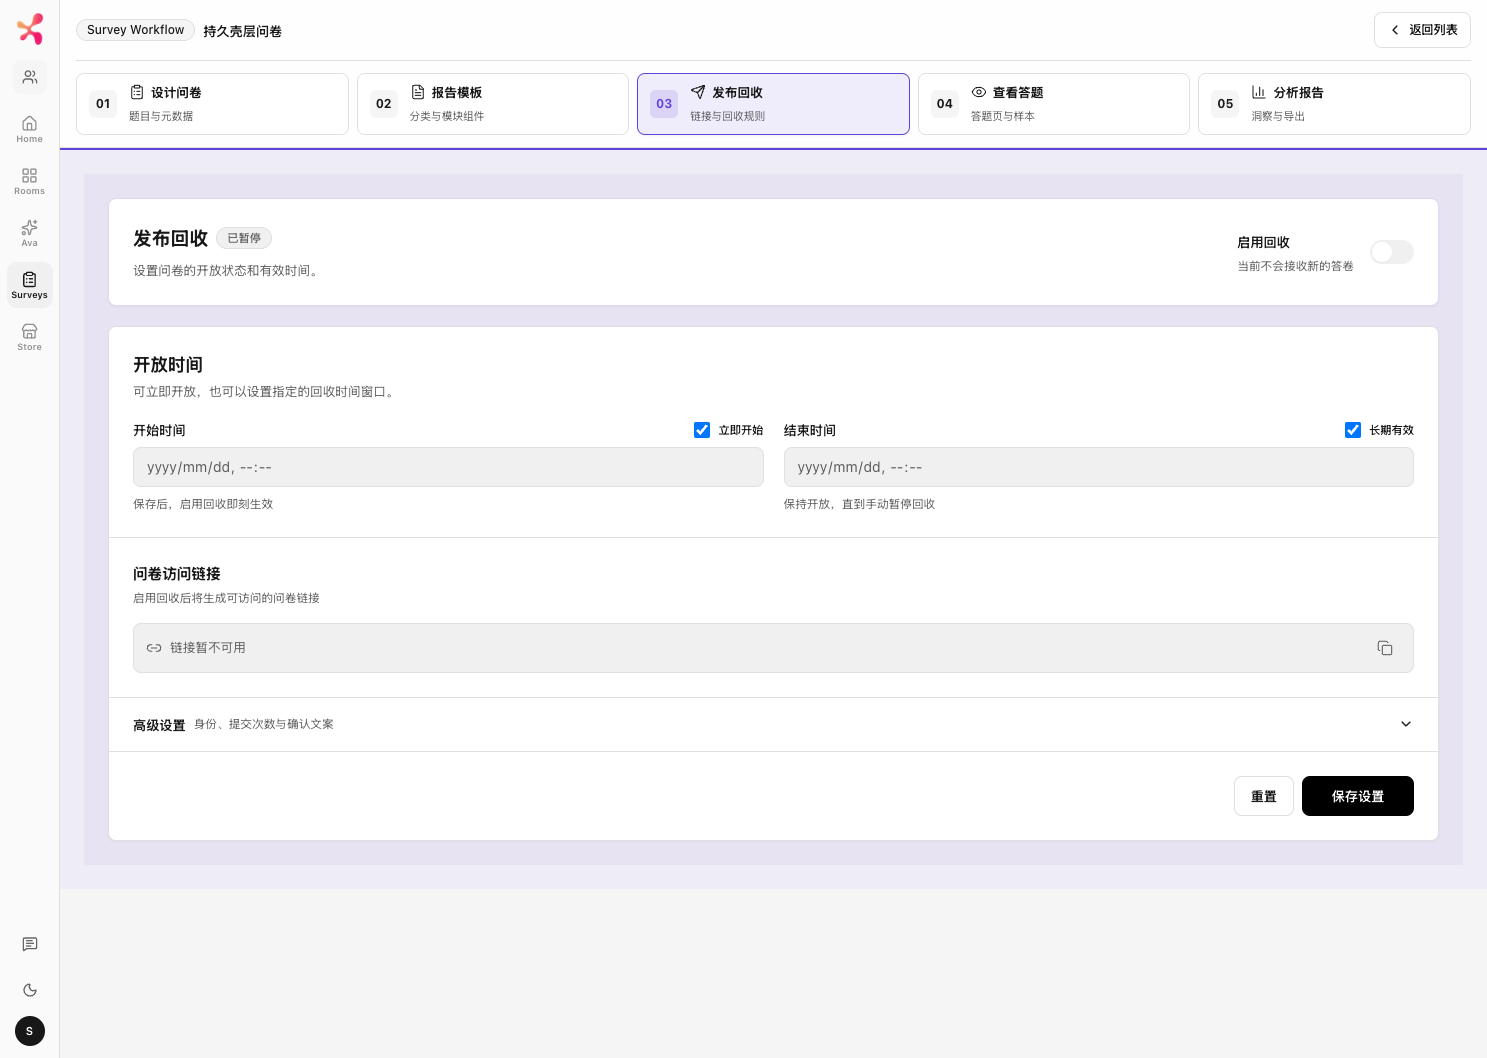
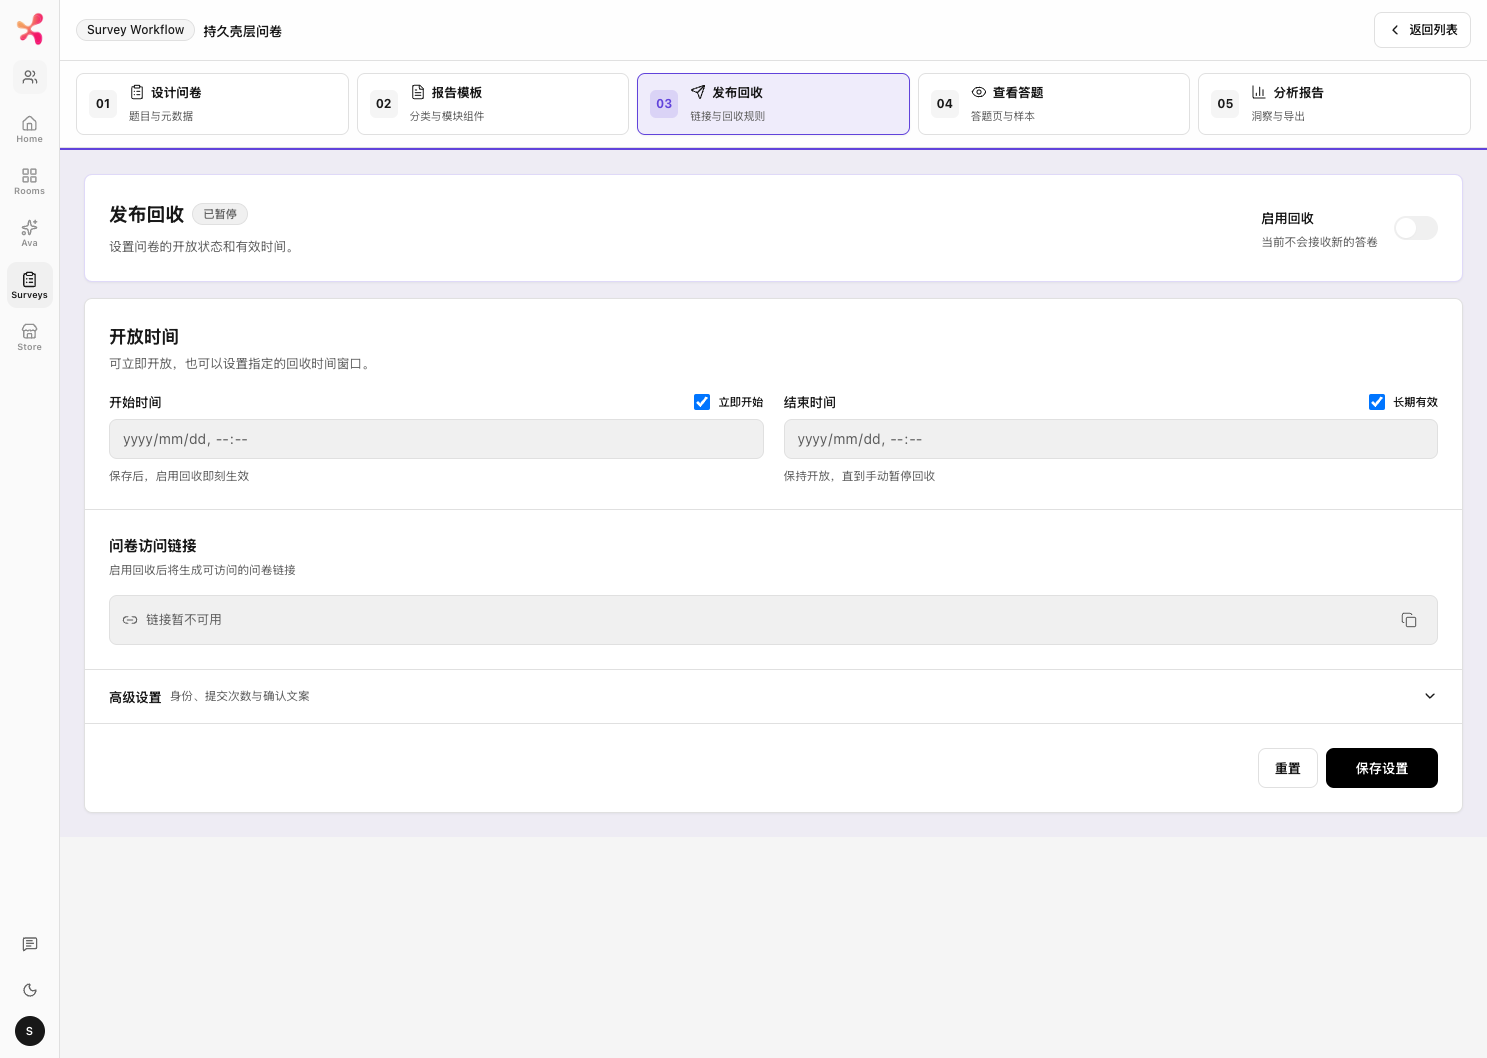
fix(survey): unify workflow surface spacing

Changed region(s): [[0.0309, 0.156, 0.9899, 0.7798], [0.464, 0.3743, 0.6187, 0.4991]]

diff --git a/apps/web/app/(app)/surveys/page.tsx b/apps/web/app/(app)/surveys/page.tsx
@@ -752,11 +752,14 @@ function WorkspaceShell({
           <div className={focusedMode ? "" : "lg:min-w-survey-workbench"}>
           {!hideHeader && <header
             data-testid={inSurveyWorkflow ? "survey-workflow-header" : undefined}
-            className="sticky top-0 z-10 border-b border-border bg-background/95 px-4 py-3 backdrop-blur"
+            className="sticky top-0 z-10 overflow-hidden border-b border-border bg-background/95 backdrop-blur"
           >
             {inSurveyWorkflow ? (
-              <div className="grid gap-3">
-                <div className="flex flex-wrap items-center justify-between gap-3">
+              <div>
+                <div
+                  data-testid="survey-workflow-topbar"
+                  className="flex flex-wrap items-center justify-between gap-3 px-4 py-3"
+                >
                   <div className="flex min-w-0 flex-wrap items-center gap-2">
                     <Badge variant="outline" className="bg-secondary">
                       Survey Workflow
@@ -774,7 +777,10 @@ function WorkspaceShell({
                   </div>
                 </div>
 
-                <div data-testid="survey-workflow-tabs" className="grid gap-2 border-t border-border pt-3 md:grid-cols-5">
+                <div
+                  data-testid="survey-workflow-tabs"
+                  className="grid gap-2 border-t border-border px-4 py-3 md:grid-cols-5"
+                >
                   <span data-testid="survey-editor-stepper" className="sr-only">
                     五步工作流导航
                   </span>
@@ -4942,7 +4948,7 @@ export default function SurveysPage() {
         onCreateBlank={() => openTemplateEditor()}
         onNavigate={(target) => void navigateWorkspace(target)}
       >
-      <div data-testid={isTemplateEditor ? "template-editor-shell" : "survey-editor-screen"} className={isTemplateEditor ? "pb-8" : "w-full px-4 pb-10 sm:px-6"}>
+      <div data-testid={isTemplateEditor ? "template-editor-shell" : "survey-editor-screen"} className={isTemplateEditor ? "pb-8" : "w-full pb-10"}>
         <div data-testid={isTemplateEditor ? undefined : "survey-editor-shell"} className="mb-4">
           {isTemplateEditor && <div className="rounded-lg border border-border bg-background">
           <div data-testid="editor-command-bar" className="flex flex-wrap items-center gap-3 py-4">

diff --git a/apps/web/e2e/survey-p25-024-persistent-workflow-shell.spec.ts b/apps/web/e2e/survey-p25-024-persistent-workflow-shell.spec.ts
@@ -218,8 +218,11 @@ test("five workflow surfaces fill the desktop workspace and keep a single-column
     await page.goto(`/surveys?survey=${survey.id}&step=${step}`);
     const surface = page.getByTestId("survey-workflow-surface");
     const content = page.getByTestId("survey-workflow-content");
+    const header = page.getByTestId("survey-workflow-header");
+    const topbar = page.getByTestId("survey-workflow-topbar");
+    const tabs = page.getByTestId("survey-workflow-tabs");
 
-    await expect(page.getByTestId("survey-workflow-header")).toContainText("持久壳层问卷", { timeout: 30_000 });
+    await expect(header).toContainText("持久壳层问卷", { timeout: 30_000 });
     const workbench = page.getByTestId(workbenches[step]);
     await expect(workbench).toBeVisible({ timeout: 20_000 });
     if (step === "design") {
@@ -228,14 +231,22 @@ test("five workflow surfaces fill the desktop workspace and keep a single-column
     }
     await expect(surface).toBeVisible({ timeout: 20_000 });
     await expect(content).toBeVisible();
-    const [surfaceBox, contentBox, workbenchBox] = await Promise.all([
+    const [headerBox, topbarBox, tabsBox, surfaceBox, contentBox, workbenchBox] = await Promise.all([
+      header.boundingBox(),
+      topbar.boundingBox(),
+      tabs.boundingBox(),
       surface.boundingBox(),
       content.boundingBox(),
       workbench.boundingBox(),
     ]);
+    expect(headerBox).not.toBeNull();
+    expect(topbarBox).not.toBeNull();
+    expect(tabsBox).not.toBeNull();
     expect(surfaceBox).not.toBeNull();
     expect(contentBox).not.toBeNull();
     expect(workbenchBox).not.toBeNull();
+    expect(Math.abs(tabsBox!.y - topbarBox!.y - topbarBox!.height)).toBeLessThanOrEqual(1);
+    expect(Math.abs(surfaceBox!.y - headerBox!.y - headerBox!.height)).toBeLessThanOrEqual(1);
     expect(Math.abs(contentBox!.x - surfaceBox!.x)).toBeLessThanOrEqual(1);
     expect(Math.abs(contentBox!.width - surfaceBox!.width)).toBeLessThanOrEqual(1);
     expect(workbenchBox!.x - contentBox!.x).toBeLessThanOrEqual(25);

diff --git a/apps/web/components/survey/survey-collect-workbench.tsx b/apps/web/components/survey/survey-collect-workbench.tsx
@@ -111,7 +111,7 @@ export function SurveyCollectWorkbench({
   }
 
   return (
-    <div data-testid="workspace-collect-workbench" className="grid w-full gap-5 bg-survey/5 p-5 md:p-6">
+    <div data-testid="workspace-collect-workbench" className="grid w-full gap-4">
       <section
         data-testid="collect-status-panel"
         className="flex flex-col gap-5 rounded-lg border border-survey/20 bg-background p-5 shadow-sm md:flex-row md:items-center md:justify-between md:p-6"

diff --git a/apps/web/components/survey/survey-design-workbench.tsx b/apps/web/components/survey/survey-design-workbench.tsx
@@ -78,7 +78,7 @@ export function SurveyDesignWorkbench({
   }, [questions, selectedQuestionId]);
 
   return (
-    <div data-testid="workspace-design-workbench" className="grid gap-3">
+    <div data-testid="workspace-design-workbench" className="grid gap-4">
       <div className={aiCollapsed ? "grid min-w-0 xl:grid-cols-[auto_minmax(0,1fr)_auto]" : "grid min-w-0 xl:grid-cols-[auto_minmax(0,1fr)_320px]"}>
         <SurveyOutlinePanel
           title="题目大纲"
